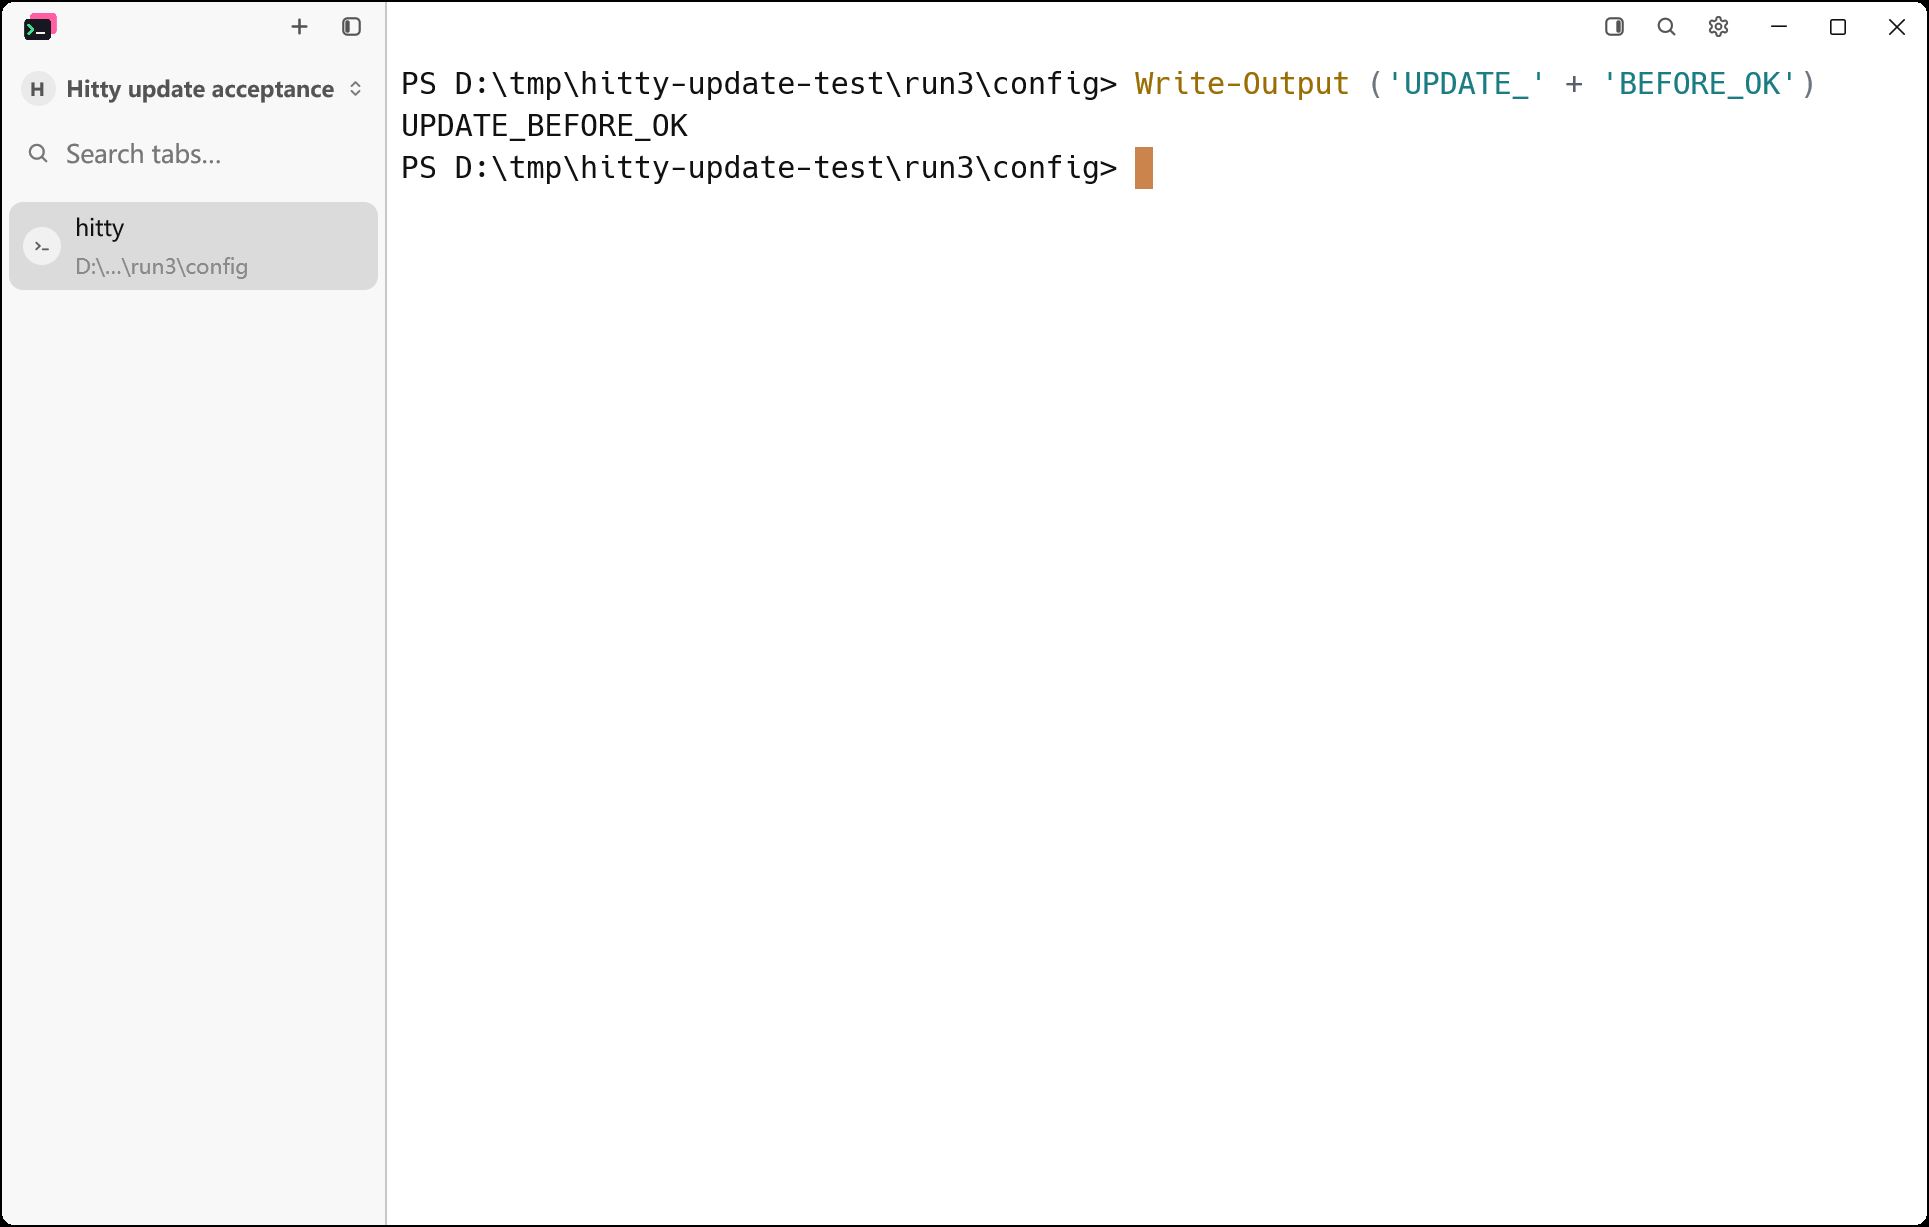
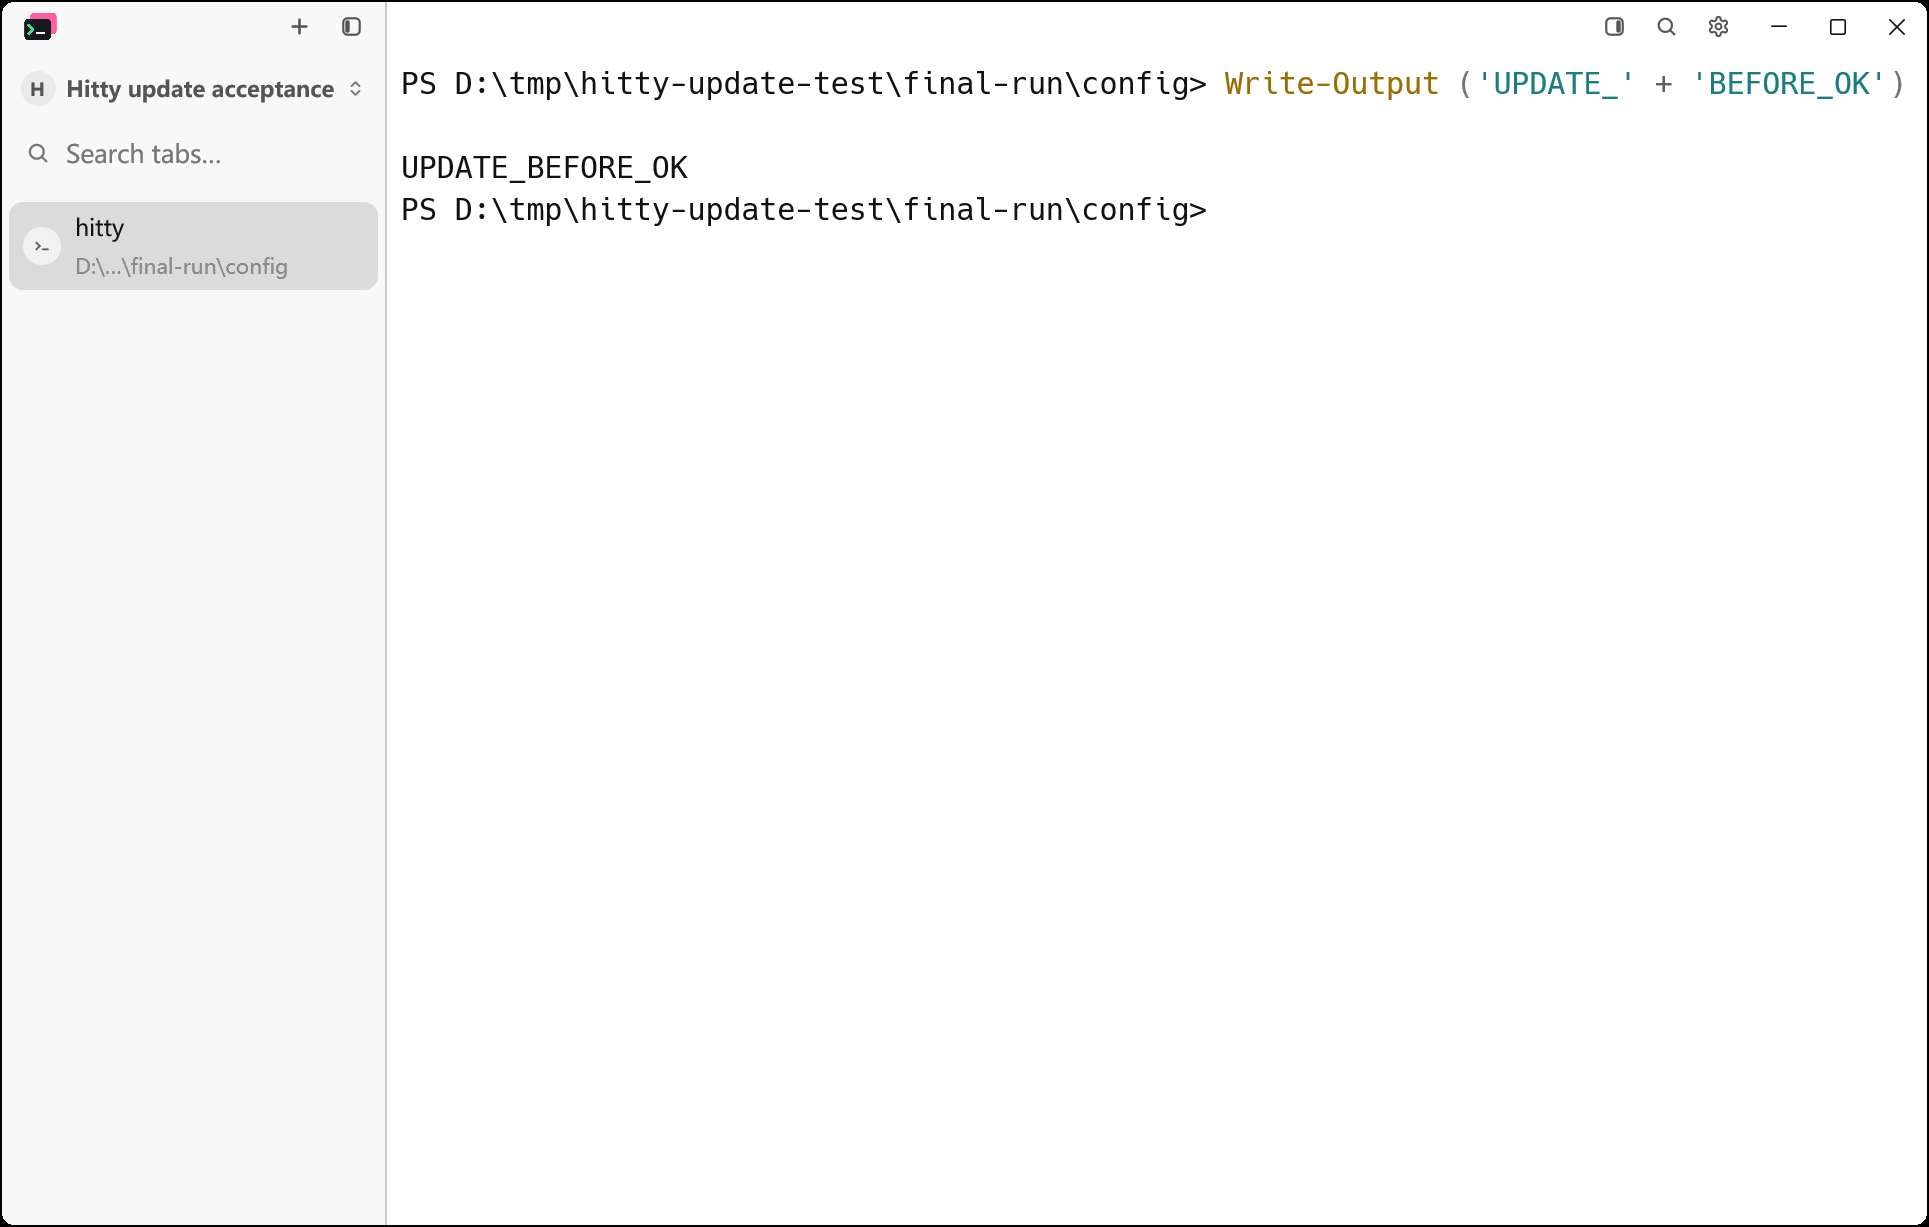
docs: record verified bootstrap builds and packages
The final implementation passed platform CI and package acceptance.
Record its evidence alongside the remaining distribution limitations.

1. Record all desktop targets and repeated Intel regression checks.
2. Preserve package runtime results and all 12 asset checksums.
3. Refresh portable update evidence against the final Windows ZIP.
4. Keep draft status and explicit first-release acceptance limits.

Changed region(s): [[0.2177, 0.0929, 0.6221, 0.1858], [0.4666, 0.0619, 0.9642, 0.0929], [0.0933, 0.2168, 0.1244, 0.2478]]

diff --git a/docs/testing/hitty-bootstrap.md b/docs/testing/hitty-bootstrap.md
@@ -99,9 +99,11 @@ empty-selection assertion in four consecutive runs: selection was `Selection`
 before the image completed and empty after reflow. The component clears a
 geometry-based selection when its bounds change. The fill/dock test now uses
 stable text so its existing double-click and layout-toggle assertions measure
-that action, independently of asynchronous image sizing. Cross-platform
-verification of the correction is pending; the earlier green run is not a
-claim that the intermittent failure was fixed.
+that action, independently of asynchronous image sizing. Final CI run
+`42443650511` passed all 10 jobs at
+`30a4413cef465f91430381532dea8dfa3dd738ae`, including 20 scheduler seeds for
+each inherited Intel UI regression. Windows CI also passed the two tests that
+had hit local wall-clock limits, using its unchanged default-concurrency command.
 
 Representative CI images were downloaded and inspected. The saved files retain
 the original artifact bytes; `images/hitty-bootstrap/ci-cec12e0.json` records
@@ -134,13 +136,24 @@ the Windows debug build. Linux x86_64 and both macOS architectures passed this
 runtime check in run
 `42438988023`. Windows portable and installed copies both passed startup,
 command output, and GUI reconnect; installation metadata also matched. The
-subsequent uninstaller exited with code 1, so Windows package acceptance is
-not complete. Its stop helper includes the invoking uninstaller in the
+subsequent uninstaller exited with code 1, so that run did not meet Windows
+package acceptance. Its stop helper included the invoking uninstaller in the
 installation-directory process sweep. A subprocess regression reproduced the
 same exit code with an `unins000.exe` parent and a live `OpenConsole.exe` child.
 The correction preserves the helper's caller chain in both termination and
 image-unlock checks. The regression then passed and confirmed the orphan was
-still terminated. Complete Windows installer verification is being rerun.
+still terminated. Rebuilt Windows package job `128618527627` in run
+`42443650571` then passed the complete portable, installation, session-reconnect,
+and uninstall checks. The uninstall log reports successful removal with no
+restart. Linux and macOS ARM64 package checks also passed on this final source
+head. macOS Intel then passed as well; package run `42443650571` completed
+successfully at `30a4413cef465f91430381532dea8dfa3dd738ae`. All 12 program
+assets were downloaded and independently verified against the workflow's
+SHA-256 output. The complete set is retained locally at
+`D:/tmp/hitty-0.1.0-verified-assets`, and the checksum manifest is retained in
+`images/hitty-bootstrap/release-checksums.txt`. Windows markers, bundled WSL
+server bytes, both macOS bundle identities, versions, and updater paths were
+also inspected. The tag-only draft-release job was skipped, as intended.
 
 ## Actual SSH and WSL deployment
 
@@ -182,7 +195,7 @@ under `D:/tmp/hitty-remote-acceptance` for later cleanup.
 
 An unpublished test-only `0.0.0` build was produced from a separate checkout
 with only the workspace version changed. Its actual GUI, CLI, and updater were
-packaged into a portable ZIP. The current candidate ZIP from run `42438988023`
+packaged into a portable ZIP. The final candidate ZIP from run `42443650571`
 was installed over it using that older Hitty updater, with isolated user data.
 
 The verifier rejected an incorrect SHA-256, accepted the real archive, waited
@@ -199,9 +212,10 @@ The before/after images were inspected at the same viewport and scale.
 
 ## Pending acceptance
 
-- Run the new package workflow and inspect its runtime evidence, installer
-  results, complete artifact set, and checksums. The macOS PR packages are
-  ad-hoc signed and do not establish notarized distribution acceptance.
+- Build, package, terminal/session, Windows installation/removal, and complete
+  asset/checksum checks are complete on the implementation head above. The
+  macOS packages are ad-hoc signed; notarized distribution and a full ARM64
+  desktop screenshot remain unverified.
 - Windows portable updates between distinct Hitty versions are verified above.
   Actual Inno, macOS bundle, and Linux AppImage version-to-version updates are
   not yet verified; their existing automated updater tests remain required.
@@ -214,7 +228,8 @@ A later default-concurrency local run passed 1,850 GUI tests but hit two existin
 wall-clock fixture limits: `agent_ctrl_v_pastes_text_and_alt_v_reaches_the_agent`
 (socket read at one second) and
 `markdown_edits_release_image_budget_and_ignore_old_completions` (image gate at
-ten seconds). Both passed individually with the same binary. The full workspace/updater suite then passed at four test threads: 3,281
+ten seconds). Both passed individually with the same binary. The full
+workspace/updater suite then passed at four test threads: 3,281
 standard Rust tests, 13 existing ignores, plus the custom CLI end-to-end harness.
 `images/hitty-bootstrap/local-final-tests.json` records the command and log hash. No
 assertions or production behavior were changed for these two tests, and CI

diff --git a/docs/hitty-bootstrap-plan.md b/docs/hitty-bootstrap-plan.md
@@ -48,4 +48,4 @@ Remove old-product data adoption and old-GUI installer cleanup behavior. Do not 
 - Validate the existing four desktop targets across the three platforms: Windows x86_64, Linux x86_64, macOS ARM64, and macOS x86_64, together with required remote-server artifacts.
 - Check clean first-run behavior with the retained preference defaults, normal terminal/Agent/SSH/WSL behavior, installation, and updates between Hitty versions. Assemble and verify the first release as a draft before publication.
 
-The maintainer confirmed the complete scope (Q5). GitHub issue #1 is synchronized with the specification in `docs/specs/0001-hitty-bootstrap.md`. The source baseline is recorded in commit `4699e7e`; rebranding is in draft PR #2, with all four desktop-target build/test jobs and four remote-server build targets passing in one complete run. A subsequent Intel Markdown selection failure is under correction; Windows package uninstall also needs verification. Native Windows smoke, cross-platform fixture evidence, and actual SSH/WSL deployment and reconnect checks are recorded in `docs/testing/hitty-bootstrap.md`. Package and first-release acceptance remain in progress. No Hitty release has been published. Preference defaults and the maintainer's current configuration remain unchanged.
+The maintainer confirmed the complete scope (Q5). GitHub issue #1 is synchronized with the specification in `docs/specs/0001-hitty-bootstrap.md`. The source baseline is recorded in commit `4699e7e`; rebranding is in draft PR #2, with all four desktop-target build/test jobs and four remote-server build targets passing on the final implementation. The Intel Markdown fixture and Windows uninstall defects are corrected and verified, including repeated Intel checks and actual Windows installation/removal. Native Windows smoke, cross-platform fixture evidence, and actual SSH/WSL deployment and reconnect checks are recorded in `docs/testing/hitty-bootstrap.md`. All platform packages and all 12 program assets/checksums are verified. Remaining first-release limitations are listed in the verification record; the PR remains a draft. No Hitty release has been published. Preference defaults and the maintainer's current configuration remain unchanged.
